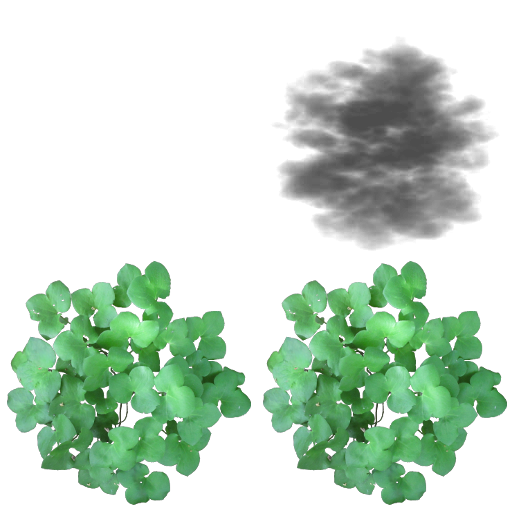
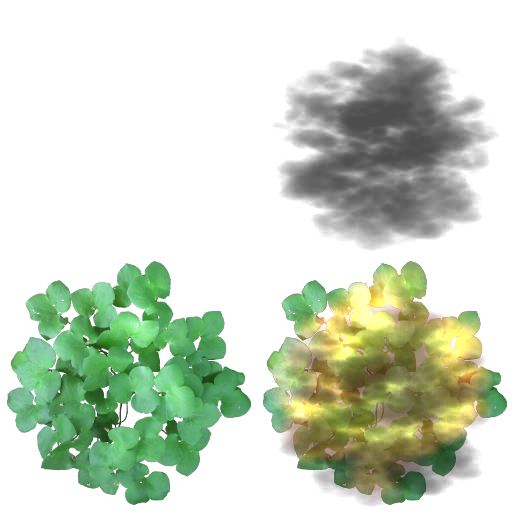
Add blendaddmul blend type

Changed region(s): [[0.5, 0.5, 0.9688, 1.0]]

diff --git a/BlendDemo/BlendDemo/App.cpp b/BlendDemo/BlendDemo/App.cpp
@@ -236,9 +236,10 @@ void App::drawFrame()
         drawBlendMode(p);
         break;
 
-      case(ParticleType::BlendAdd):
+      case(ParticleType::BlendAddMul):
         drawBlendMode(p);
         drawAdditiveMode(p);
+        drawMultiplyMode(p);
         break;
       }
     }
@@ -278,7 +279,7 @@ void App::drawFrame()
       texOffsetY = texSize;
       break;
 
-    case(ParticleType::BlendAdd):
+    case(ParticleType::BlendAddMul):
       texOffsetX = texSize;
       texOffsetY = texSize;
       break;

diff --git a/BlendDemo/BlendDemo/App.h b/BlendDemo/BlendDemo/App.h
@@ -29,7 +29,7 @@ protected:
     Additive = 0,
     Multiply,
     Blend,
-    BlendAdd, //!< Blend and add in one blend mode
+    BlendAddMul, //!< Blend, add and multiply in one blend mode
 
     MAX
   };
